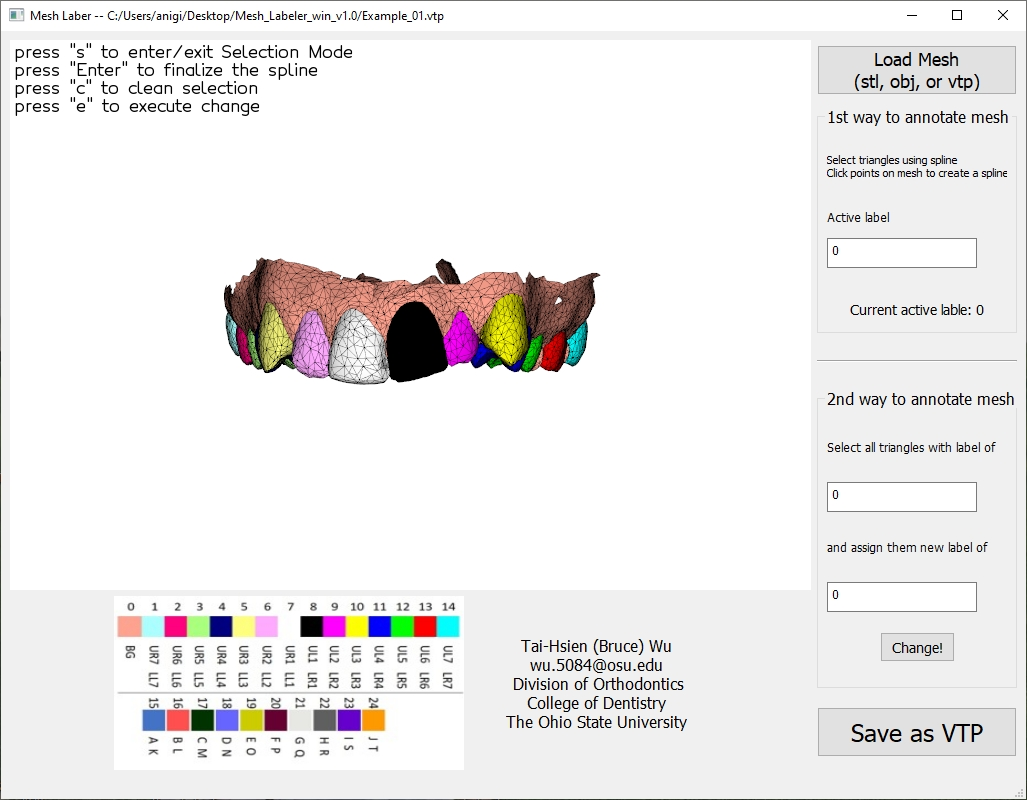
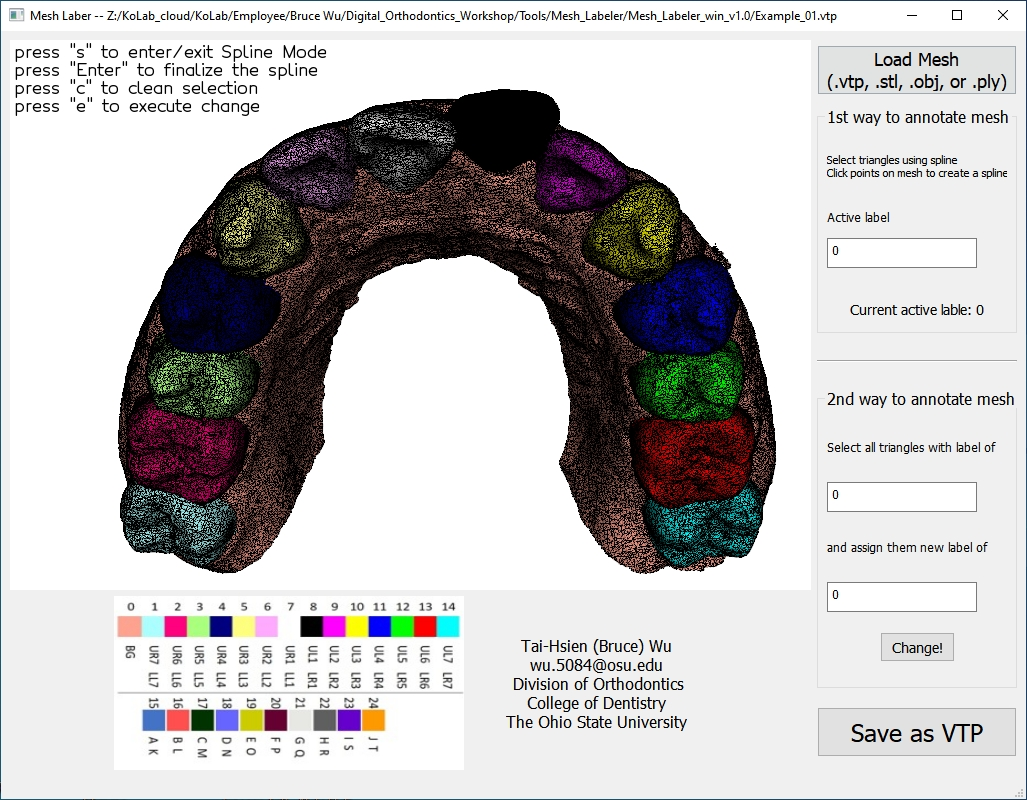
support obj and ply; reduce the size of program

diff --git a/README.md b/README.md
@@ -20,10 +20,10 @@ This project is mainly based on [Visualization Toolkit (VTK)](https://vtk.org/) 
 ![Figure 1. The user interface of **Mesh Labeler**](./figure1.jpg)
 
 4.  Use the top-right button to open a mesh file. Currently, the program supports VTP
-    (with an attribute named **Label** , a cell scalar array) and STL files. There are two examples (Example_01.vtp and Example_02.stl) in the folder. Note: Since a STL file does not have the attribute **Label**.
+    (with an attribute named **Label** , a cell scalar array) and STL, OBJ, and PLY files. There are four examples (Example_01.vtp, Example_02.stl, Example_03.obj, and Example_04.ply) in the folder. Note: Since STL, OBJ, PLY files do not have the attribute **Label**.
     The program will initially generate the cell scalar array (i.e., **Label**)
     and assign value of 0 (i.e., all background) to the array for each cell
-    (i.e., for each triangle) when loading the two types of files. The
+    (i.e., for each triangle) when loading these types of files. The
     screenshot after loading an appropriate VTP will look like below.
 
 ![Figure 2. After loading a suitable VTP file, you can see the model in the center of the window.](./figure2.jpg)
